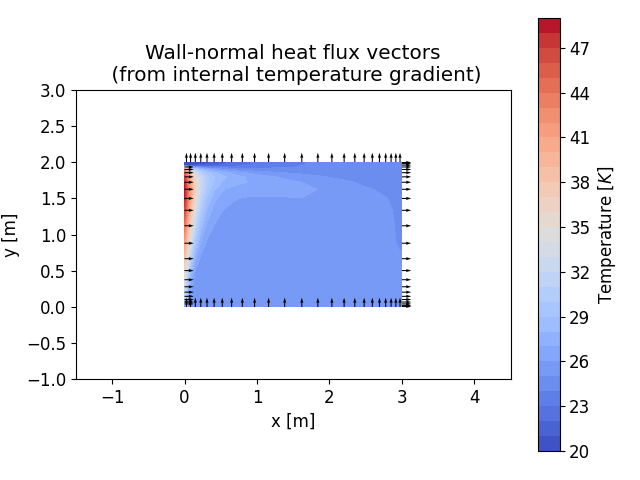
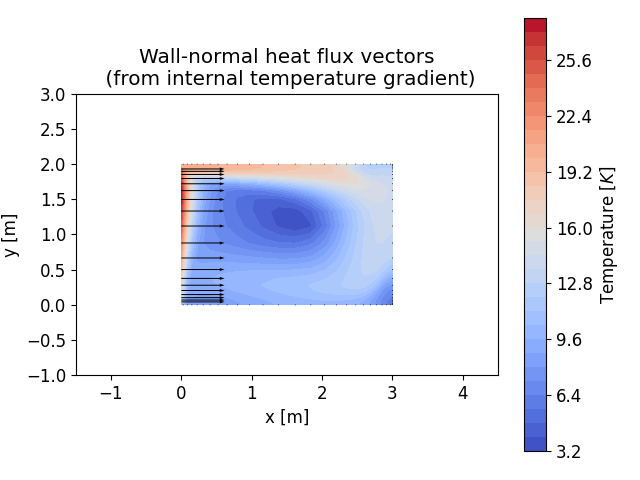
.

diff --git a/MTF073/T2/Martin_T2_codeFunctions.py b/MTF073/T2/Martin_T2_codeFunctions.py
@@ -691,24 +691,66 @@ def createDefaultPlots(
     # Use temperature gradient just inside domain (note difference to set heat flux)
     qX = np.zeros((nI,nJ))*nan # Array for heat flux in x-direction, in nodes
     qY = np.zeros((nI,nJ))*nan # Array for heat flux in y-direction, in nodes
-    for j in range(1,nJ-1):
+    # for j in range(1,nJ-1):
+    #     i = 0
+    #     if u[i,j] == 0 and v[i,j] == 0:
+    #         qX[i,j] = 1 # ADD CODE HERE
+    #         qY[i,j] = 0
+    #     i = nI-1
+    #     if u[i,j] == 0 and v[i,j] == 0:
+    #         qX[i,j] = 1 # ADD CODE HERE
+    #         qY[i,j] = 0
+    # for i in range(1,nI-1):
+    #     j = 0
+    #     if u[i,j] == 0 and v[i,j] == 0:
+    #         qX[i,j] = 0
+    #         qY[i,j] = 1 # ADD CODE HERE
+    #     j = nJ-1
+    #     if u[i,j] == 0 and v[i,j] == 0:
+    #         qX[i,j] = 0
+    #         qY[i,j] = 1 # ADD CODE HERE
+    
+    """
+    --------------------------------
+    # ADDED CODE
+    --------------------------------
+    """
+    # VERTICAL WALLS (x = 0 e x = L)
+    for j in range(1, nJ - 1):
+        # WEST:
         i = 0
-        if u[i,j] == 0 and v[i,j] == 0:
-            qX[i,j] = 1 # ADD CODE HERE
-            qY[i,j] = 0
-        i = nI-1
-        if u[i,j] == 0 and v[i,j] == 0:
-            qX[i,j] = 1 # ADD CODE HERE
-            qY[i,j] = 0
-    for i in range(1,nI-1):
+        if u[i, j] == 0 and v[i, j] == 0:
+
+            dTdx = (T[1, j] - T[0, j]) / dx_WP[1, j]
+
+            qX[i, j] = -k * dTdx
+            qY[i, j] = 0.0
+
+        # EAST:
+        i = nI - 1
+        if u[i, j] == 0 and v[i, j] == 0:
+
+            dTdx = (T[nI - 1, j] - T[nI - 2, j]) / dx_PE[nI - 2, j]
+            qX[i, j] = -k * dTdx
+            qY[i, j] = 0.0
+
+    # HORIZONTAL WALLS (y = 0 e y = H)
+    for i in range(1, nI - 1):
+        # SOUTH:
         j = 0
-        if u[i,j] == 0 and v[i,j] == 0:
-            qX[i,j] = 0
-            qY[i,j] = 1 # ADD CODE HERE
-        j = nJ-1
-        if u[i,j] == 0 and v[i,j] == 0:
-            qX[i,j] = 0
-            qY[i,j] = 1 # ADD CODE HERE
+        if u[i, j] == 0 and v[i, j] == 0:
+
+            dTdy = (T[i, 1] - T[i, 0]) / dy_SP[i, 1]
+            qX[i, j] = 0.0
+            qY[i, j] = -k * dTdy
+
+        # NORTH: j = nJ-1
+        j = nJ - 1
+        if u[i, j] == 0 and v[i, j] == 0:
+
+            dTdy = (T[i, nJ - 1] - T[i, nJ - 2]) / dy_PN[i, nJ - 2]
+            qX[i, j] = 0.0
+            qY[i, j] = -k * dTdy
             
     plt.figure()
     plt.xlabel('x [m]')

diff --git a/MTF073/T2/Martin_T2.py b/MTF073/T2/Martin_T2.py
@@ -50,7 +50,7 @@ k       = 1      # Thermal conductivity
 Cp      = 500    # Specific heat
 gamma = k/Cp   # Calculated diffusion coefficient
 
-unsteady = False # True or False
+unsteady = True # True or False
 
 if unsteady:
     # For unsteady:
